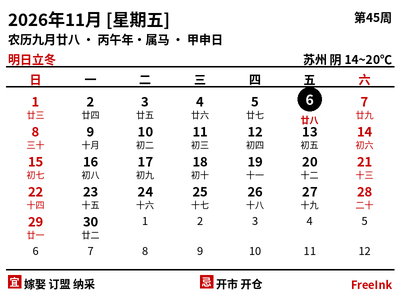
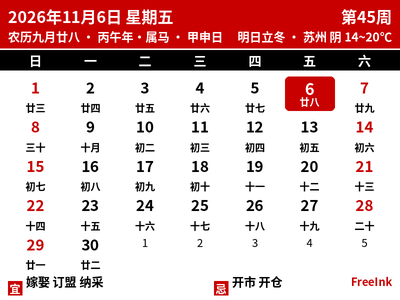
host: bigger fonts + compact banded layout for calendar card

diff --git a/host/calendar_card.py b/host/calendar_card.py
@@ -138,88 +138,89 @@ def draw():
     iso = date.isocalendar()
     weekend = date.weekday() >= 5
 
-    # ---------- header ----------
-    # line A: "2026年11月" + [星期五] in red brackets if weekend
-    ym_s = f"{date.year}年{date.month}月"
-    T(8, 6, ym_s, 17)
-    w_ym = d.textlength(ym_s, font=font(17, True)) / SCALE
-    wd_s = f"[星期{WEEKDAYS[date.weekday()]}]"
-    T(8 + w_ym + 4, 6, wd_s, 17, RED if weekend else BLACK)
-    T(W - 8, 8, f"第{iso[1]}周", 12, BLACK, anchor="ra")
-
-    # line B: lunar + ganzhi day + year shengxiao
+    # ---------- header: red band (2 lines, white text) ----------
+    BAND_H = 48
+    R(0, 0, W, BAND_H, RED)
+    wd_s = f"星期{WEEKDAYS[date.weekday()]}"
+    T(8, 16, f"{date.year}年{date.month}月{date.day}日 {wd_s}", 16, WHITE,
+      anchor="lm")
+    T(W - 8, 16, f"第{iso[1]}周", 16, WHITE, anchor="rm")
     ly_gz = today_lunar.getYearInGanZhi()
     dy_gz = today_lunar.getDayInGanZhi()
-    T(8, 30, f"农历{today_lunar.getMonthInChinese()}月{today_lunar.getDayInChinese()}"
-             f" · {ly_gz}年·属{ZODIAC[ZHI.index(ly_gz[1])]} · {dy_gz}日", 12)
-
-    # line C: solar term + weather
-    parts = []
+    T(8, 36, f"农历{today_lunar.getMonthInChinese()}月{today_lunar.getDayInChinese()}"
+             f" · {ly_gz}年·属{ZODIAC[ZHI.index(ly_gz[1])]} · {dy_gz}日",
+      12, WHITE, anchor="lm")
+    term_s = ""
     nq = today_lunar.getNextJieQi(True)
     if nq:
         nd = dt.date.fromisoformat(nq.getSolar().toYmd())
         delta = (nd - date).days
-        parts.append("明日" + nq.getName() if delta == 1 else
-                     "今日" + nq.getName() if delta == 0 else
-                     f"{delta}天后{nq.getName()}")
+        term_s = ("明日" + nq.getName() if delta == 1 else
+                  "今日" + nq.getName() if delta == 0 else
+                  f"{delta}天后{nq.getName()}")
     wx = None if a.no_weather else get_weather(a.city)
     wx_s = f"{wx['city']} {wx['desc']} {wx['lo']}~{wx['hi']}℃" if wx else ""
-    term_s = " · ".join(parts)
-    T(8, 50, term_s, 12, RED)
-    if wx_s:
-        T(W - 8, 50, wx_s, 12, BLACK, anchor="ra")
+    right2 = " · ".join(x for x in (term_s, wx_s) if x)
+    if right2:
+        T(W - 8, 36, right2, 12, WHITE, anchor="rm")
 
-    R(6, 66, W - 6, 67, BLACK)
-
-    # ---------- weekday header ----------
+    # ---------- weekday band: black, white ----------
+    WB_Y = BAND_H + 2
     colw = (W - 16) / 7.0
+    R(0, WB_Y, W, WB_Y + 20, BLACK)
     for i, ch in enumerate(HEADERS):
         cx = 8 + colw * i + colw / 2
-        T(cx, 70, ch, 12, RED if i in (0, 6) else BLACK, anchor="ma")
-    R(6, 86, W - 6, 87, BLACK)
+        T(cx, WB_Y + 10, ch, 13, WHITE, anchor="mm")
 
-    # ---------- month grid (Sunday-first) ----------
+    # ---------- month grid ----------
     first = date.replace(day=1)
-    start = first - dt.timedelta(days=(first.weekday() + 1) % 7)  # back to Sunday
-    gy, rowh = 89, 30.0
-    for r in range(6):
+    start = first - dt.timedelta(days=(first.weekday() + 1) % 7)  # Sunday
+    last = (first.replace(day=_cal.monthrange(date.year, date.month)[1]))
+    rows_needed = ((last - start).days // 7) + 1
+    grid_y = WB_Y + 24
+    foot_h = 24
+    rowh = (H - foot_h - 6 - grid_y) / rows_needed
+
+    for r in range(rows_needed):
         for c in range(7):
             cell = start + dt.timedelta(days=r * 7 + c)
             cx = 8 + colw * c + colw / 2
-            cy = gy + rowh * r
+            top = grid_y + rowh * r
             in_month = cell.month == date.month
             is_today = cell == date
             cl = Solar.fromYmd(cell.year, cell.month, cell.day).getLunar()
 
             if is_today:
-                rr = 12
-                d.ellipse([(cx - rr) * SCALE, (cy + 10 - rr) * SCALE,
-                           (cx + rr) * SCALE, (cy + 10 + rr) * SCALE], fill=BLACK)
-                T(cx, cy + 10, str(cell.day), 14, WHITE, anchor="mm")
-                T(cx, cy + 24, lunar_text(cl), 9, RED, anchor="ma")
+                # red filled cell, white number + white lunar
+                m = 2.5
+                d.rounded_rectangle(
+                    [(8 + colw * c + m) * SCALE, (top + m) * SCALE,
+                     (8 + colw * (c + 1) - m) * SCALE, (top + rowh - m) * SCALE],
+                    radius=4 * SCALE, fill=RED)
+                T(cx, top + rowh * 0.36, str(cell.day), 16, WHITE, anchor="mm")
+                T(cx, top + rowh * 0.70, lunar_text(cl), 10, WHITE, anchor="mm")
             elif in_month:
-                T(cx, cy + 2, str(cell.day), 13,
-                  RED if cell.weekday() >= 5 else BLACK, anchor="ma")
-                T(cx, cy + 19, lunar_text(cl), 9,
-                  RED if cell.weekday() >= 5 else BLACK, anchor="ma", bold=False)
+                col = RED if cell.weekday() >= 5 else BLACK
+                T(cx, top + 2, str(cell.day), 15, col, anchor="ma")
+                T(cx, top + rowh - 13, lunar_text(cl), 10,
+                  BLACK, anchor="ma", bold=True)
             else:
-                T(cx, cy + 3, str(cell.day), 11, BLACK, anchor="ma", bold=False)
+                T(cx, top + 3, str(cell.day), 11, BLACK, anchor="ma", bold=False)
 
     # ---------- footer: real almanac yi/ji ----------
-    fy = gy + rowh * 6 + 4          # ~273
-    R(6, fy - 4, W - 6, fy - 3, BLACK)
+    fy = H - foot_h + 1
 
     def chip(x, y, ch):
-        R(x, y, x + 13, y + 13, RED)
-        T(x + 6.5, y + 6.5, ch, 10, WHITE, anchor="mm")
+        R(x, y, x + 14, y + 14, RED)
+        T(x + 7, y + 7, ch, 11, WHITE, anchor="mm")
 
     yi = " ".join(today_lunar.getDayYi()[:3])
     ji = " ".join(today_lunar.getDayJi()[:2])
-    chip(8, fy + 2, "宜")
-    T(24, fy + 2, yi, 11, anchor="la")
-    chip(200, fy + 2, "忌")
-    T(216, fy + 2, ji, 11, anchor="la")
-    T(W - 8, fy + 3, "FreeInk", 11, RED, anchor="ra")
+    chip(8, fy + 4, "宜")
+    T(26, fy + 4, yi, 12, anchor="lm")
+    chip(214, fy + 4, "忌")
+    T(232, fy + 4, ji, 12, anchor="lm")
+    T(W - 8, fy + 4, "FreeInk", 11, RED, anchor="rm")
 
     out = a.out or f"examples/calendar_{date.isoformat()}.png"
     img = img.resize((W, H), Image.Resampling.LANCZOS)
